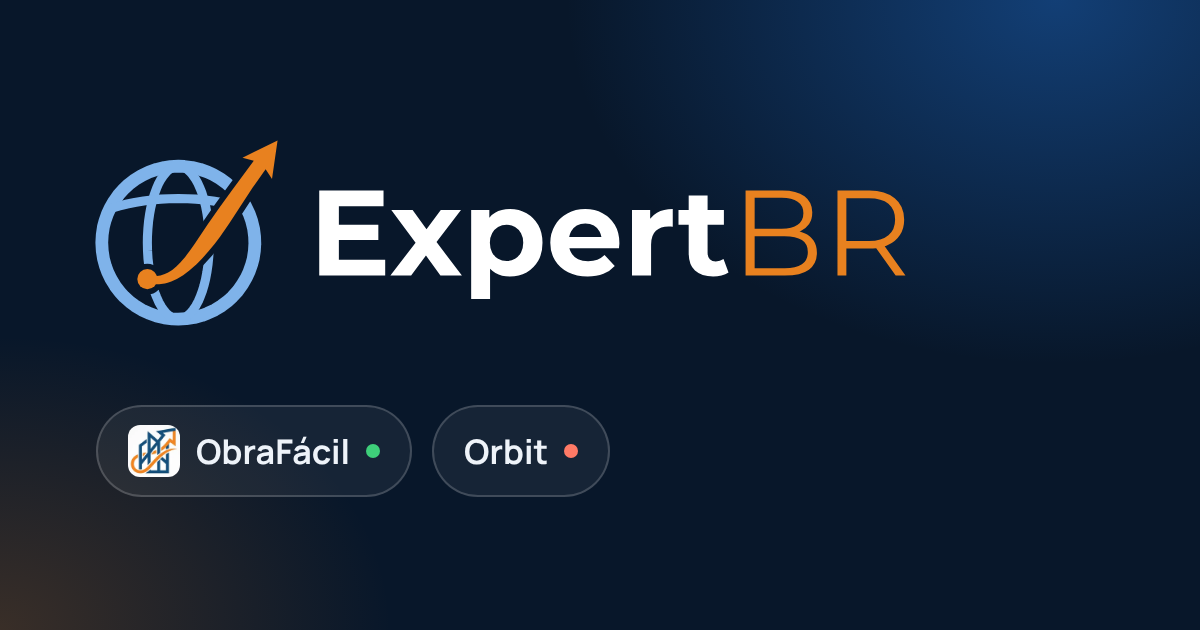
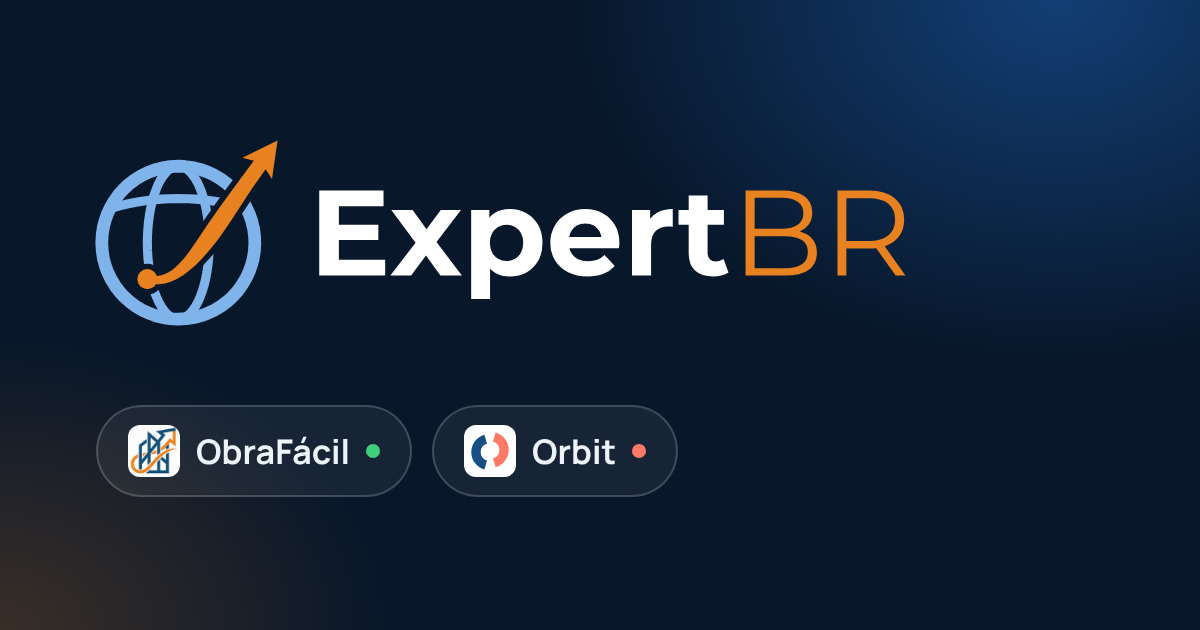
Site da ExpertBR: o Orbit com o logotipo Monograma na lista de aplicativos
marcas/orbit.svg: o Monograma (aprovado pelo Francis em 20/11, 13h07) no quadrado branco,
como o ícone do ObraFácil ao lado, no lugar do balão sobre o coral (provisório). Gerado
no repositório do Orbit (ferramentas/marca/gerar_marca.py --expertbr). A prévia do link
(og.png) ganha o ícone do Orbit, como o ObraFácil; LEIAME e produtos.js atualizados.

Conferido: npm test, npm run lint, expertbr:test e expertbr:build; 29 idiomas em 360 e
390 px, claro e escuro, sem rolagem para o lado (116 páginas).

Claude-Session: https://claude.ai/code/session_012MWRovwiVF1zj1fQCUZE4c

Changed region(s): [[0.37, 0.6635, 0.555, 0.754], [0.4625, 0.6333, 0.555, 0.6635], [0.4933, 0.7841, 0.5242, 0.8143]]

diff --git a/sites/expertbr/src/produtos.js b/sites/expertbr/src/produtos.js
@@ -76,7 +76,8 @@ export const PRODUTOS = [
         estado: 'em-breve',
         endereco: 'https://orbit.expertbr.com',
         cor: 'orbit',
-        // Ícone do Orbit (o mesmo do app: balão de conversa no coral, orbit/public/app-icon.html).
+        // Ícone do Orbit: o logotipo "Monograma" (aprovado pelo Francis em 20/11/2026, 13h07) no quadrado branco, como o
+        // do ObraFácil ao lado. Gerado no repositório do Orbit: ferramentas/marca/gerar_marca.py --expertbr.
         simbolo: { arquivo: 'marcas/orbit.svg', largura: 64, altura: 64 },
         textos: {
             linha: 'produtos.orbit.linha',

diff --git a/sites/expertbr/ferramentas/imagens.py b/sites/expertbr/ferramentas/imagens.py
@@ -13,6 +13,7 @@ os SVG (public/logo/*.svg e public/favicon.svg). Este script só fotografa esses
     og.png                 prévia do link (WhatsApp, redes sociais), 1200 x 630: o logotipo e os apps da casa, sem
                            texto de idioma (vale para os 29)
     marcas/obrafacil.webp  símbolo do ObraFácil, 128 x 128, reduzido de public/favicon.png do site do ObraFácil
+    (marcas/orbit.svg, o ícone do Orbit, vem pronto do repositório do Orbit: ferramentas/marca/gerar_marca.py)
 Nada vem de banco de imagens nem de outro site. Fonte do og.png: pacote @fontsource do node_modules (licença OFL).
 """
 
@@ -70,7 +71,7 @@ body {{ --l: 1200px; --a: 630px; background:
 <img class="logo" src="{svg('logo/expertbr-escuro.svg')}">
 <div class="apps">
   <div class="app"><img src="{svg('marcas/obrafacil.webp')}"><span>ObraFácil</span><span class="ponto ar"></span></div>
-  <div class="app"><span>Orbit</span><span class="ponto"></span></div>
+  <div class="app"><img src="{svg('marcas/orbit.svg')}"><span>Orbit</span><span class="ponto"></span></div>
 </div>
 </body></html>"""
 

diff --git a/sites/expertbr/LEIAME.md b/sites/expertbr/LEIAME.md
@@ -67,8 +67,8 @@ faltar.
 Mesmo mundo do site do ObraFácil (tokens, Bricolage Grotesque nos títulos e Manrope no texto, laranja só na ação e no
 destaque, claro e escuro), com composição de estúdio: título grande ("Um aplicativo para cada **trabalho**."), o
 elenco dos apps em linha logo na primeira dobra (como os créditos de um estúdio) e um painel por app na cor dele. O
-ObraFácil no painel azul do site dele, com as telas reais subindo da borda; o Orbit em coral (a cor do ícone dele,
-`marcas/orbit.svg`, desenhado a partir de `orbit/public/app-icon.html`), com um desenho simples das três conversas
+ObraFácil no painel azul do site dele, com as telas reais subindo da borda; o Orbit em coral (a cor do cliente no
+logotipo "Monograma" dele, `marcas/orbit.svg`), com um desenho simples das três conversas
 chegando numa caixa só (sem tela inventada e sem logotipo de outra empresa). Sem gradiente no texto, sem selo em
 cima dos títulos, sem cartões iguais de ícone e texto.
 
@@ -111,7 +111,9 @@ Todas geradas por script, nada de banco de imagens: os SVG do logotipo e o `favi
 `apple-touch-icon.png` (o símbolo sobre fundo branco, 180 px), `logo.png` (o logotipo horizontal sobre fundo branco,
 1200 x 300, logotipo dos dados estruturados), `og.png` (prévia do link: o logotipo e os apps da casa, sem texto de
 idioma), `marcas/obrafacil.webp` (reduzida de `public/favicon.png` do site do ObraFácil). `marcas/orbit.svg` é o
-ícone do Orbit (provisório: o logotipo do Orbit está em estudo).
+ícone do Orbit: o logotipo "Monograma" (aprovado em 20/11/2026, 13h07) no quadrado branco, como o do ObraFácil, gerado
+no repositório do Orbit (`python3 ferramentas/marca/gerar_marca.py --expertbr sites/expertbr/public/marcas`, com o
+caminho desta pasta).
 
 ## Conferência
 
